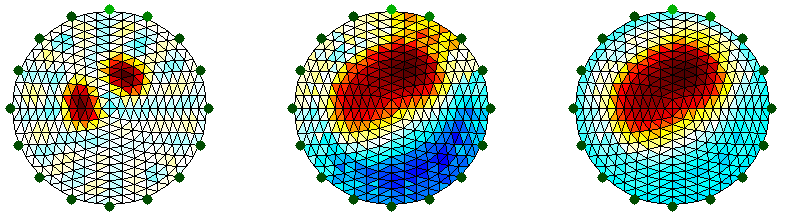
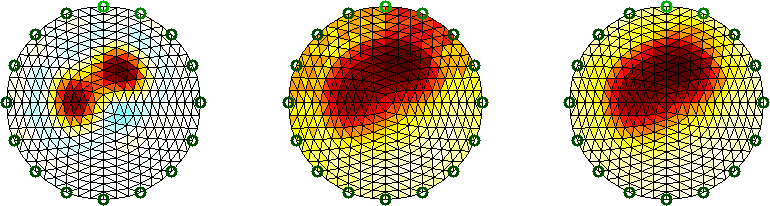
fix colours and fix backprojection direction
git-svn-id: svn://svn.code.sf.net/p/eidors3d/code/trunk@1517 82006732-fb7e-4a22-9f28-86a212cce563

diff --git a/htdocs/tutorial/EIDORS_basics/backproj_solve03.m b/htdocs/tutorial/EIDORS_basics/backproj_solve03.m
@@ -1,4 +1,4 @@
-% $Id: backproj_solve03.m,v 1.3 2007-10-22 21:34:39 aadler Exp $
+% $Id: backproj_solve03.m,v 1.4 2008-07-22 20:26:02 aadler Exp $
 
 % Gauss Newton Solver
 inv_GN= eidors_obj('inv_model','GN_solver','fwd_model', img.fwd_model);
@@ -6,9 +6,10 @@ inv_GN.reconst_type= 'difference';
 inv_GN.solve= @np_inv_solve;
 inv_GN.RtR_prior= @noser_image_prior;
 inv_GN.jacobian_bkgnd.value= 1;
-inv_GN.hyperparameter.value= 1e-3;
+inv_GN.hyperparameter.value= 0.03;
 
 imgr= inv_solve(inv_GN, vh,vi);
+imgr.calc_colours.ref_level=0;
 subplot(131)
 show_fem(imgr);
 axis equal; axis off
@@ -20,15 +21,15 @@ inv_BP.solve= @backproj_solve;
 inv_BP.backproj_solve.type= 'naive';
 
 imgr= inv_solve(inv_BP, vh,vi);
-subplot(132)
-show_fem(imgr);
+imgr.calc_colours.ref_level=0;
+subplot(132); show_fem(imgr);
 axis equal; axis off
 
 inv_BP.backproj_solve.type= 'simple_filter';
 
 imgr= inv_solve(inv_BP, vh,vi);
-subplot(133)
-show_fem(imgr);
+imgr.calc_colours.ref_level=0;
+subplot(133); show_fem(imgr);
 axis equal; axis off
 
 print -r125 -dpng backproj_solve03a.png;

diff --git a/htdocs/tutorial/EIDORS_basics/tutorial120a.m b/htdocs/tutorial/EIDORS_basics/tutorial120a.m
@@ -1,5 +1,5 @@
 % Compare 2D algorithms
-% $Id: tutorial120a.m,v 1.3 2008-05-19 15:42:41 aadler Exp $
+% $Id: tutorial120a.m,v 1.4 2008-07-22 20:26:02 aadler Exp $
 
 imb=  mk_common_model('c2c',16);
 
@@ -22,6 +22,7 @@ vi_n= vi;
 nampl= std(vi.meas - vh.meas)*10^(-18/20);
 vi_n.meas = vi.meas + nampl *randn(size(vi.meas));
 
+subplot(221)
 show_fem(img);
 axis square; axis off
-print -r50 -dpng tutorial120a.png;
+print -r100 -dpng tutorial120a.png;
